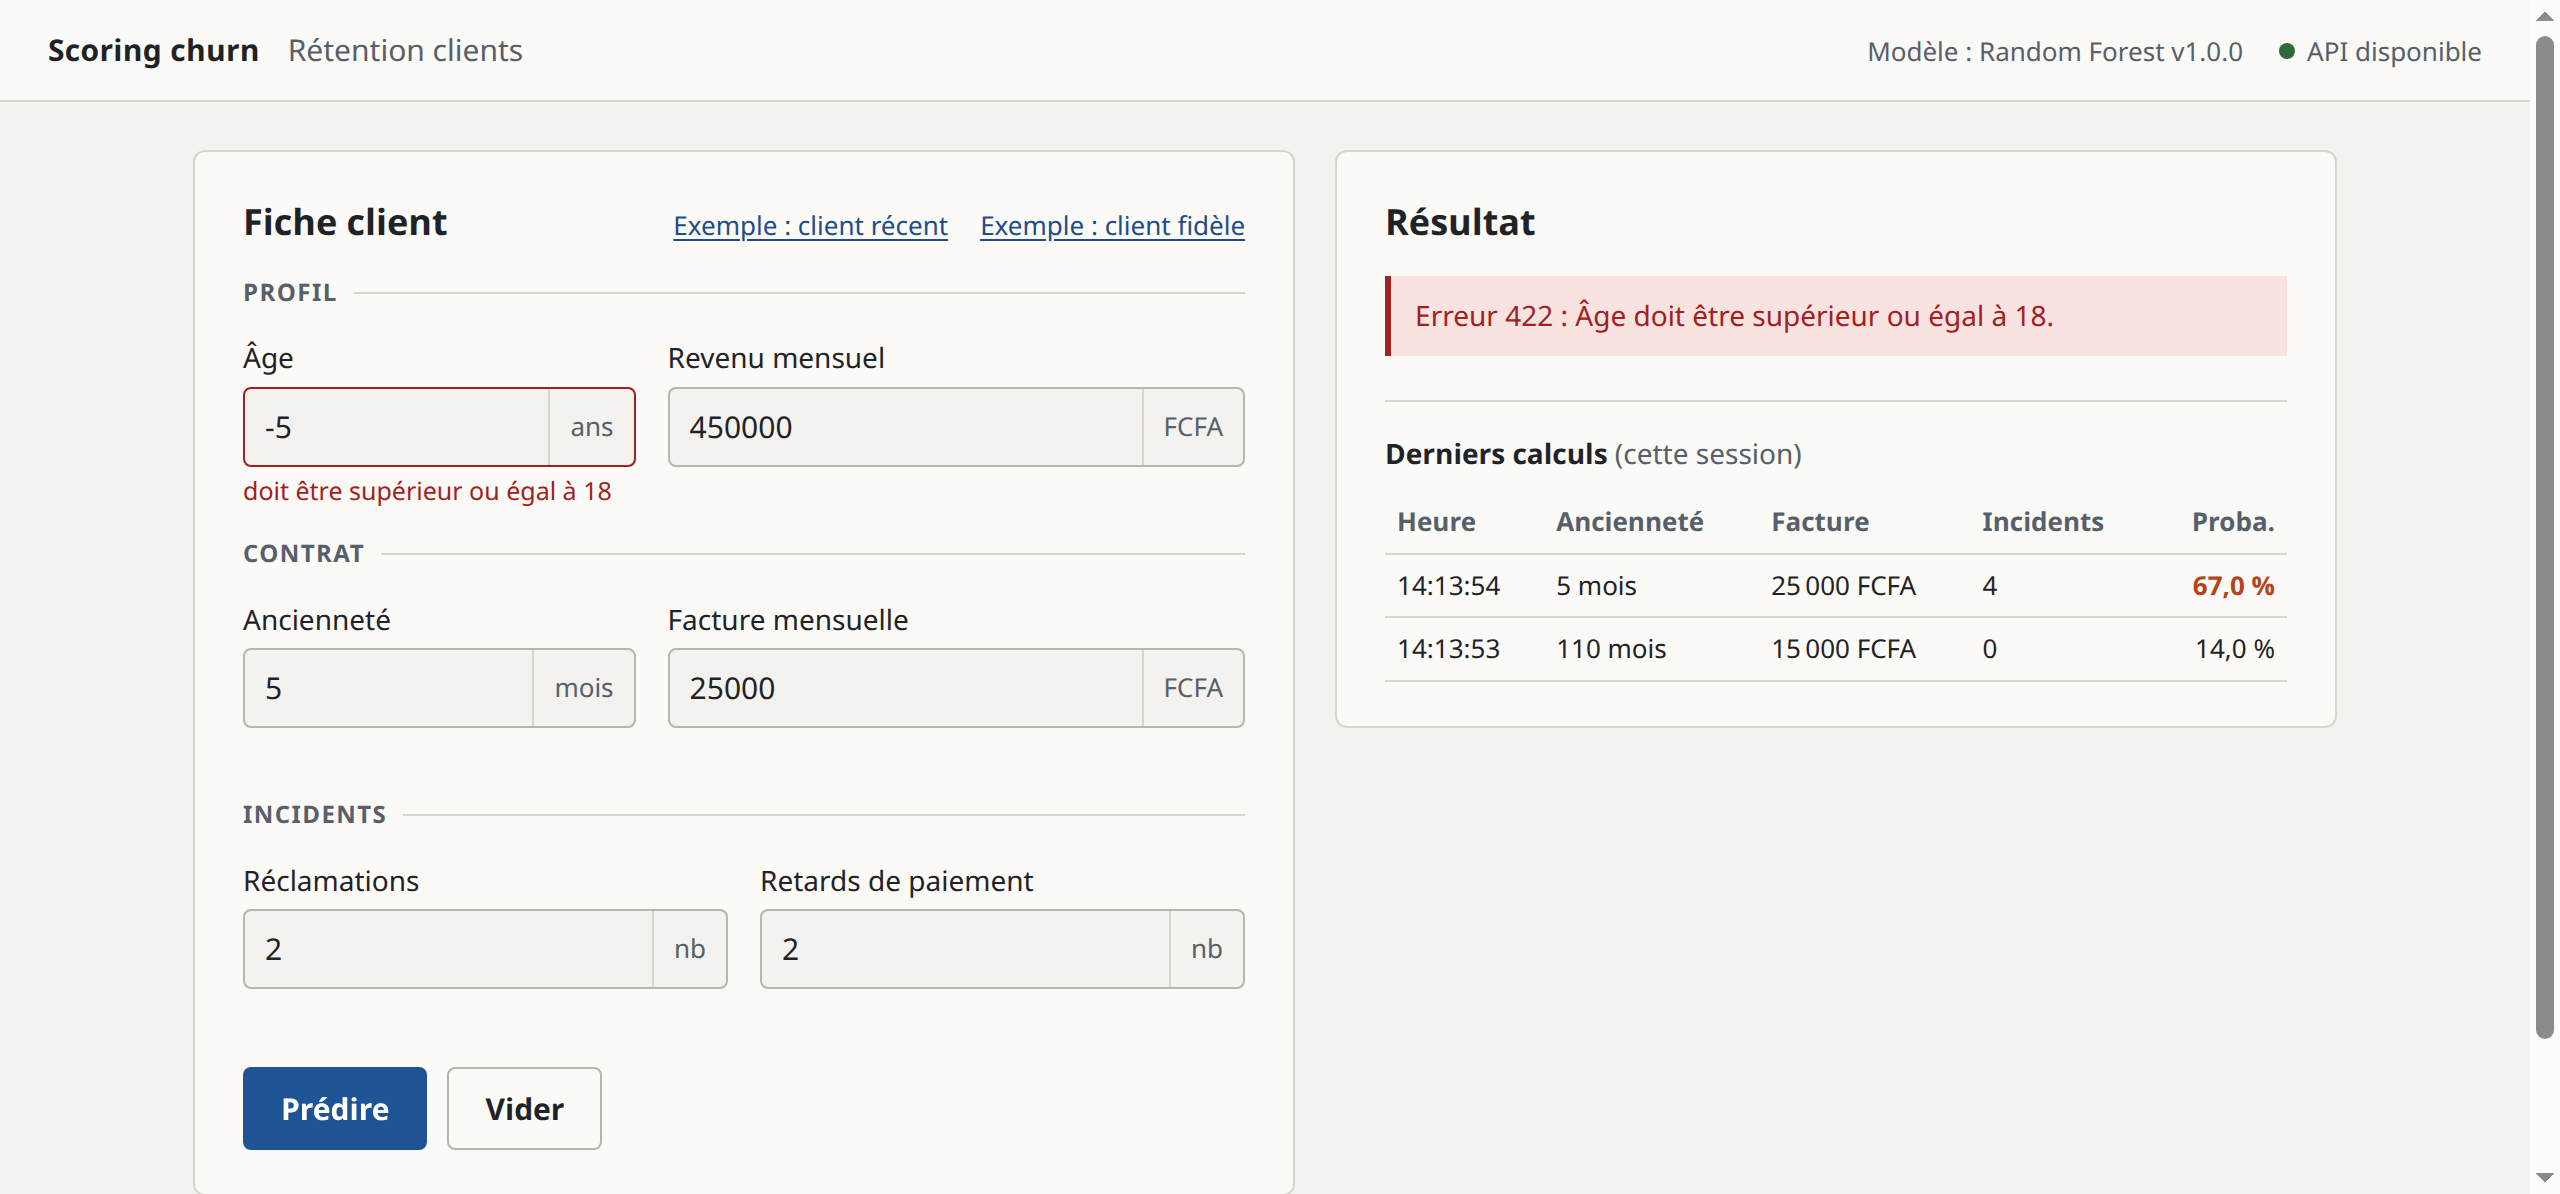
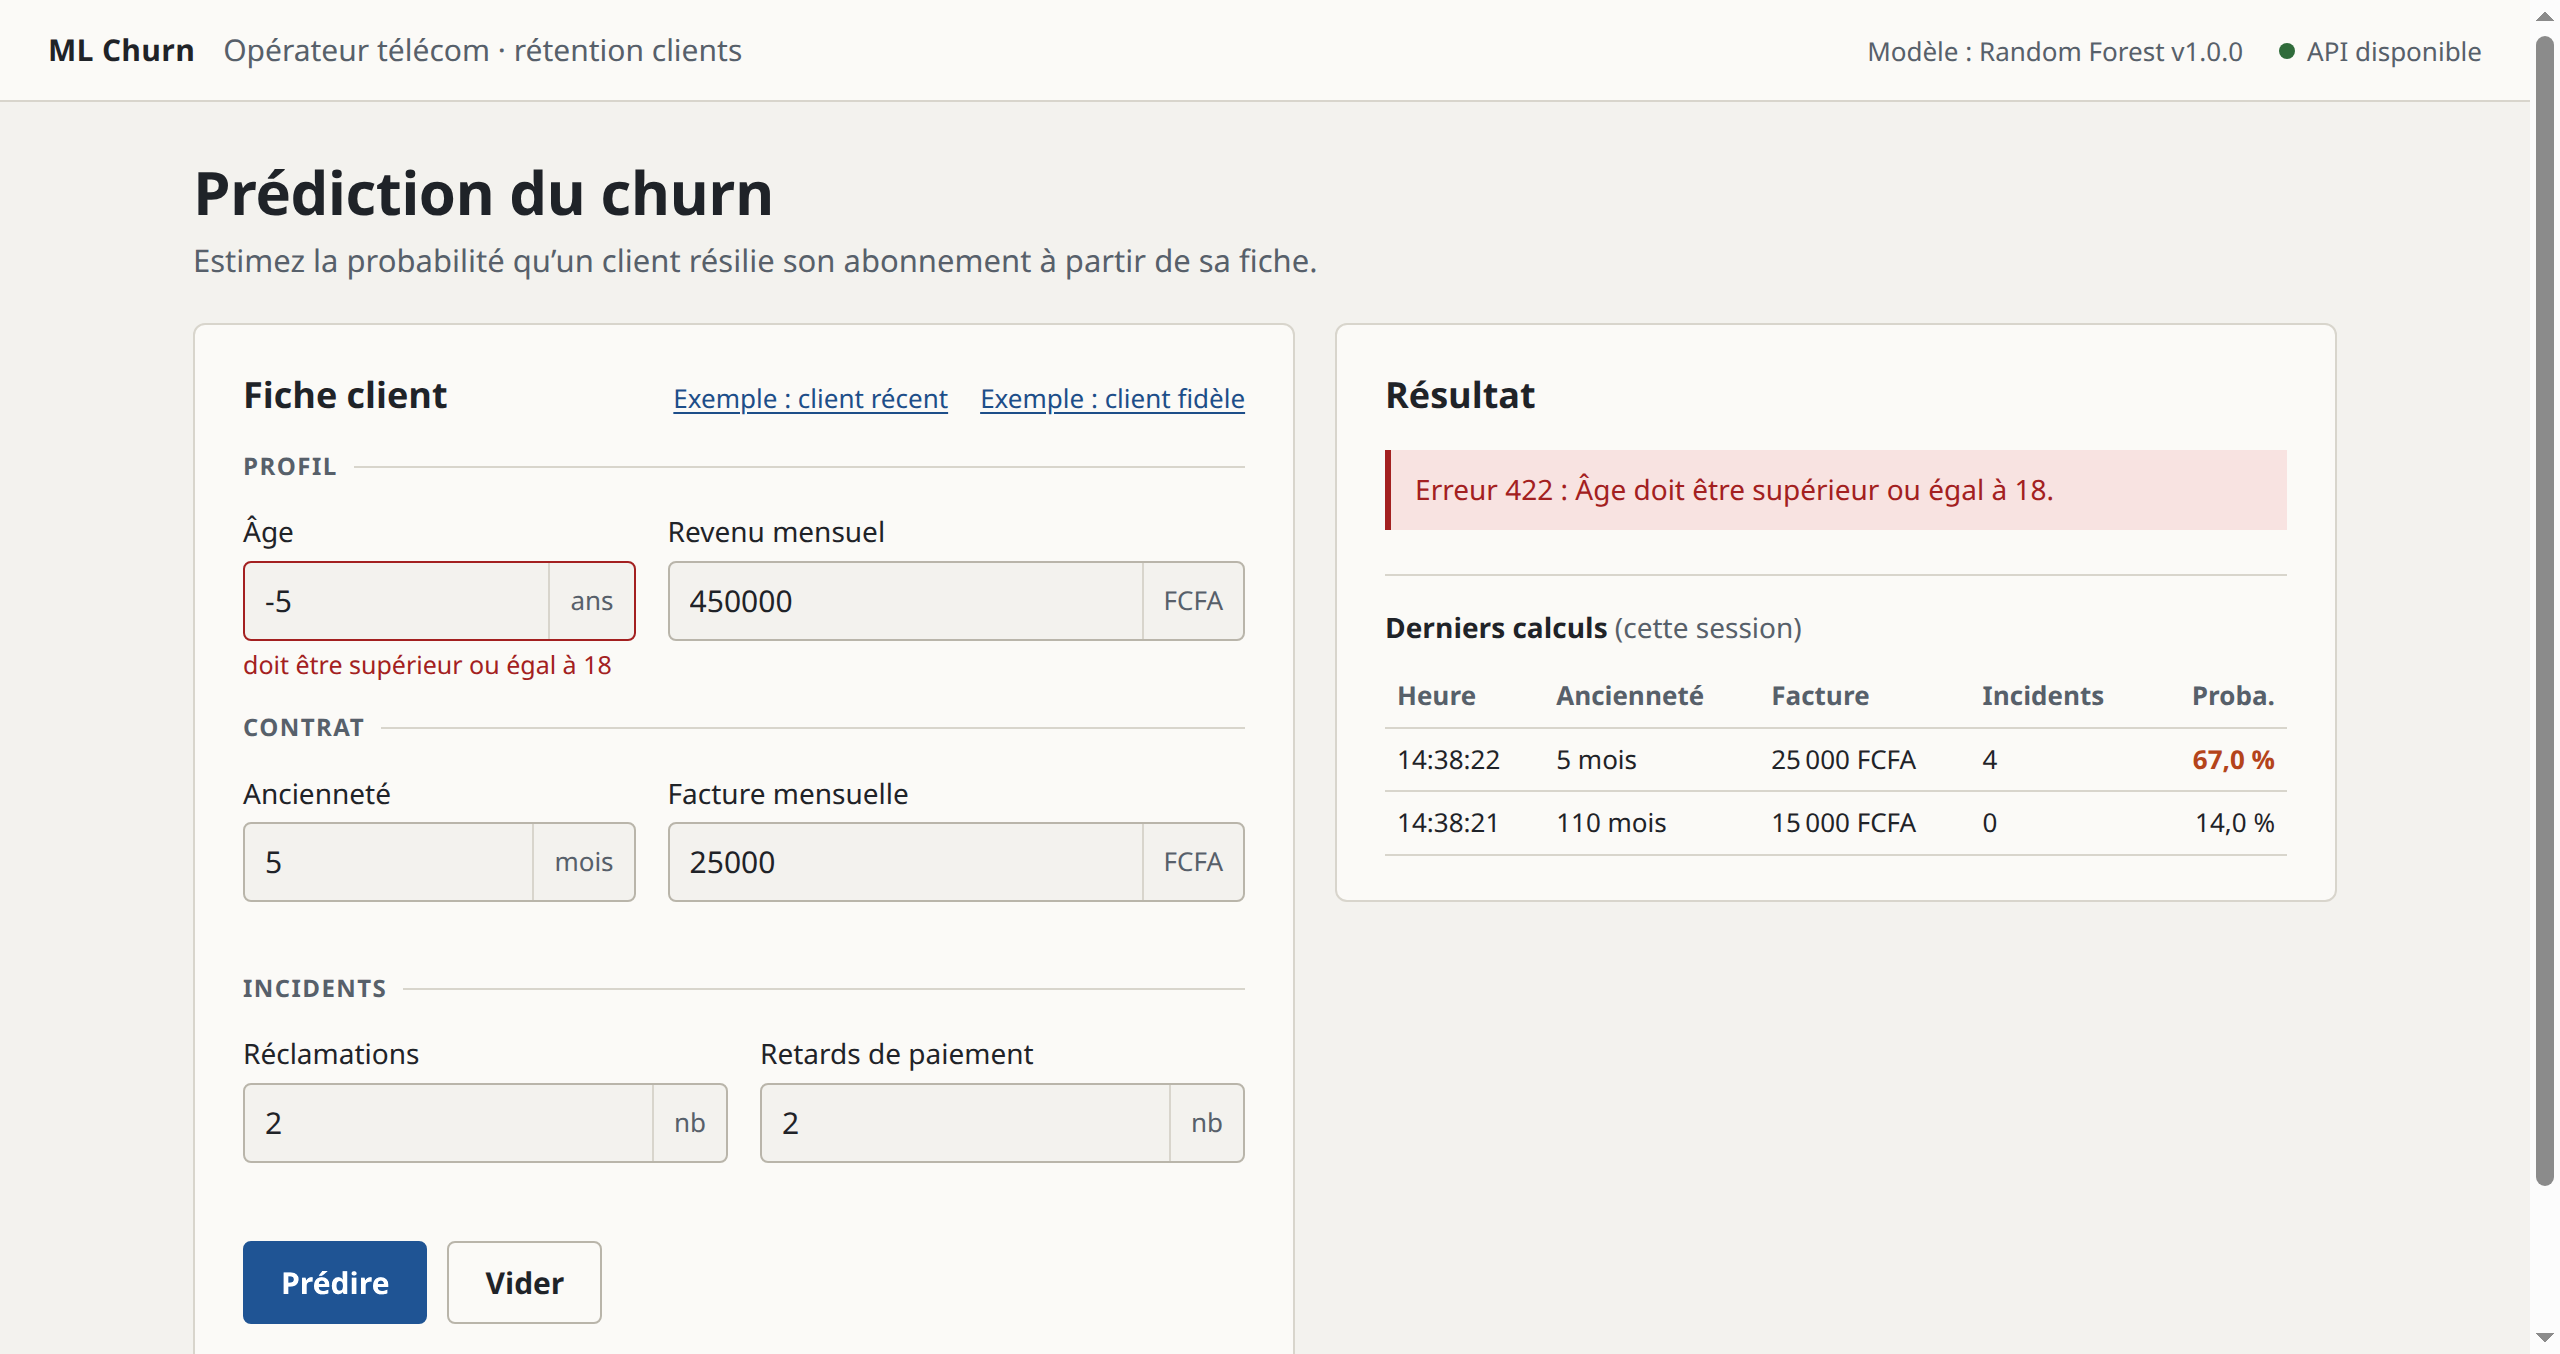
Interface : titre de page « Prédiction du churn » mis en évidence

diff --git a/frontend/style.css b/frontend/style.css
@@ -77,13 +77,34 @@ body {
 .api-status[data-state="up"]::before { background: var(--ok); }
 .api-status[data-state="down"]::before { background: var(--error); }
 
+/* ---------------------------------------------------------------- titre de page */
+.page-head {
+  max-width: 1120px;
+  margin: 0 auto;
+  padding: 28px 24px 0;
+}
+
+.page-head h1 {
+  margin: 0;
+  font-size: 30px;
+  font-weight: 700;
+  letter-spacing: -0.01em;
+  line-height: 1.15;
+}
+
+.page-head p {
+  margin: 6px 0 0;
+  color: var(--ink-soft);
+  font-size: 15.5px;
+}
+
 /* ---------------------------------------------------------------- mise en page */
 .layout {
   display: grid;
   grid-template-columns: minmax(0, 1.1fr) minmax(0, 1fr);
   gap: 20px;
   max-width: 1120px;
-  margin: 24px auto;
+  margin: 20px auto 24px;
   padding: 0 24px;
   align-items: start;
 }
@@ -294,6 +315,8 @@ td.risk { color: var(--risk); font-weight: 600; }
 
 /* ---------------------------------------------------------------- mobile */
 @media (max-width: 860px) {
+  .page-head { padding: 20px 16px 0; }
+  .page-head h1 { font-size: 25px; }
   .layout { grid-template-columns: 1fr; padding: 0 16px; margin: 16px auto; }
   .topbar { padding: 12px 16px; }
   .result-panel { position: static; }
@@ -301,6 +324,7 @@ td.risk { color: var(--risk); font-weight: 600; }
 }
 
 @media (max-width: 480px) {
+  .brand-sub { display: none; }
   fieldset { grid-template-columns: 1fr; }
   .panel { padding: 18px 16px; }
   /* historique : on retire la colonne « Incidents » pour tenir sans défilement */

diff --git a/frontend/index.html b/frontend/index.html
@@ -9,8 +9,8 @@
 <body>
   <header class="topbar">
     <div class="brand">
-      <span class="brand-name">Scoring churn</span>
-      <span class="brand-sub">Rétention clients</span>
+      <span class="brand-name">ML Churn</span>
+      <span class="brand-sub">Opérateur télécom · rétention clients</span>
     </div>
     <div class="status">
       <span id="model-info">Modèle : chargement…</span>
@@ -18,10 +18,15 @@
     </div>
   </header>
 
+  <div class="page-head">
+    <h1>Prédiction du churn</h1>
+    <p>Estimez la probabilité qu’un client résilie son abonnement à partir de sa fiche.</p>
+  </div>
+
   <main class="layout">
     <section class="panel form-panel" aria-labelledby="form-title">
       <div class="panel-head">
-        <h1 id="form-title">Fiche client</h1>
+        <h2 id="form-title">Fiche client</h2>
         <div class="presets" aria-label="Exemples">
           <button type="button" class="link-btn" data-preset="recent">Exemple : client récent</button>
           <button type="button" class="link-btn" data-preset="fidele">Exemple : client fidèle</button>
